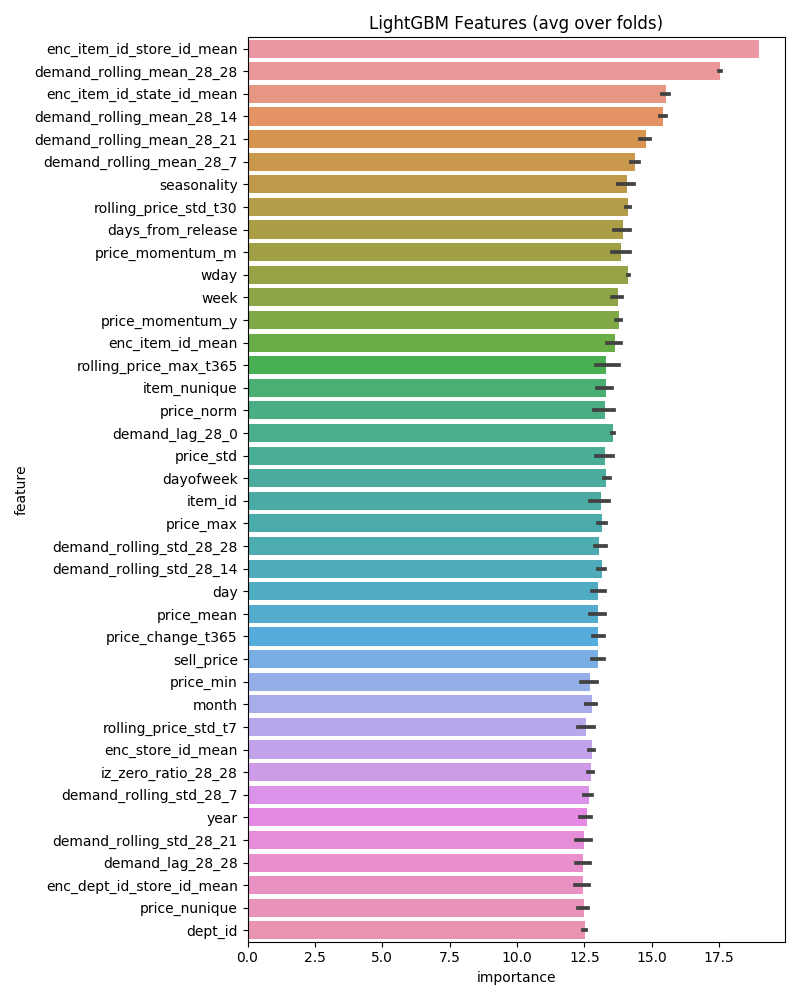
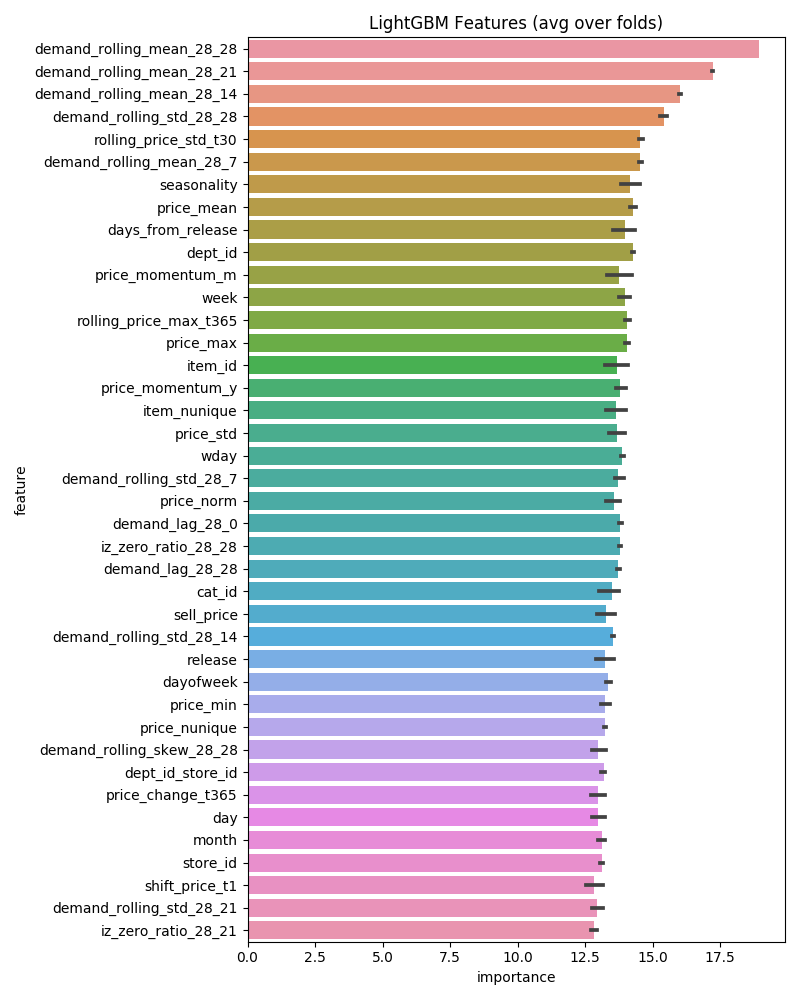
model 401 28days base cv:0.613794

diff --git a/src/201_cv_lgbm_28days.py b/src/201_cv_lgbm_28days.py
@@ -15,10 +15,8 @@ from glob import glob
 from tqdm import tqdm
 
 from utils import line_notify, to_json, rmse, save2pkl, submit
-from utils import NUM_FOLDS, FEATS_EXCLUDED, COLS_TEST1, COLS_TEST2, CAT_COLS
-from utils import CustomTimeSeriesSplitter, custom_asymmetric_train, custom_asymmetric_valid
-from utils_lag import target_encoding
-from utils_score import get_evaluators
+from utils import NUM_FOLDS, FEATS_EXCLUDED
+from utils import CustomTimeSeriesSplitter
 
 #==============================================================================
 # Train LightGBM with custom cv (28days lag)
@@ -56,27 +54,17 @@ def kfold_lightgbm(train_df, test_df, num_folds):
 
     # Create arrays and dataframes to store results
     oof_preds = np.zeros(train_df.shape[0])
-    sub_preds = np.zeros(test_df.shape[0])
     feature_importance_df = pd.DataFrame()
     feats = [f for f in train_df.columns if f not in FEATS_EXCLUDED]
 
     valid_idxs=[]
     avg_best_iteration = 0 # average of best iteration
 
-    # get evaluators
-    lgb_evaluators = get_evaluators()
-
     # k-fold
     for n_fold, (train_idx, valid_idx) in enumerate(folds.split(train_df)):
         # split train/valid
         train_x, train_y = train_df[feats].iloc[train_idx], train_df['demand'].iloc[train_idx]
         valid_x, valid_y = train_df[feats].iloc[valid_idx], train_df['demand'].iloc[valid_idx]
-
-        # target encoding
-        cols_encoding=['item_id','cat_id','dept_id','store_id','state_id',
-                       'item_id_store_id','item_id_state_id','dept_id_store_id',
-                       'dept_id_state_id']
-        train_x, valid_x, enc_cols = target_encoding(train_x,valid_x,train_y,cols_encoding)
 
         # save validation indexes
         valid_idxs += list(valid_idx)
@@ -114,10 +102,10 @@ def kfold_lightgbm(train_df, test_df, num_folds):
         reg = lgb.train(
                         params,
                         lgb_train,
-                        valid_sets=[lgb_test],
+                        valid_sets=[lgb_train, lgb_test],
+                        valid_names=['train', 'test'],
                         num_boost_round=10000,
                         early_stopping_rounds=100,
-                        feval=lgb_evaluators[n_fold].feval,
                         verbose_eval=10
                         )
 
@@ -126,14 +114,13 @@ def kfold_lightgbm(train_df, test_df, num_folds):
 
         # save predictions
         oof_preds[valid_idx] = reg.predict(valid_x, num_iteration=reg.best_iteration)
-#        sub_preds += reg.predict(test_df[feats], num_iteration=reg.best_iteration) / folds.n_splits
 
         # save best iteration
         avg_best_iteration += reg.best_iteration / folds.n_splits
 
         # save feature importances
         fold_importance_df = pd.DataFrame()
-        fold_importance_df['feature'] = feats+enc_cols
+        fold_importance_df['feature'] = feats
         fold_importance_df['importance'] = np.log1p(reg.feature_importance(importance_type='gain', iteration=reg.best_iteration))
         fold_importance_df['fold'] = n_fold + 1
         feature_importance_df = pd.concat([feature_importance_df, fold_importance_df], axis=0)

diff --git a/src/301_train_lgbm_28days.py b/src/301_train_lgbm_28days.py
@@ -18,7 +18,6 @@ from tqdm import tqdm
 
 from utils import line_notify, to_json, rmse, save2pkl, submit
 from utils import FEATS_EXCLUDED, COLS_TEST1, COLS_TEST2, CAT_COLS
-from utils_lag import target_encoding
 
 #==============================================================================
 # Train LightGBM with 28days lag
@@ -50,12 +49,6 @@ def display_importances(feature_importance_df_, outputpath, csv_outputpath):
 # Train LightGBM
 def train_lightgbm(train_df,test_df):
     print('Starting LightGBM. Train shape: {}'.format(train_df.shape))
-
-    # target endcoding
-    cols_encoding=['item_id','cat_id','dept_id','store_id','state_id',
-                   'item_id_store_id','item_id_state_id','dept_id_store_id',
-                   'dept_id_state_id']
-    train_df, test_df, enc_cols = target_encoding(train_df,test_df,train_df['demand'],cols_encoding)
 
     # Create arrays and dataframes to store results
     oof_preds = np.zeros(train_df.shape[0])

diff --git a/src/401_predict_28days.py b/src/401_predict_28days.py
@@ -33,6 +33,9 @@ def main():
     print('to pivot...')
     oof = oof.pivot(index='id', columns='d', values='demand').reset_index()
 
+    # fill na
+    oof.fillna(0,inplace=True)
+
     # postprocesssing
     cols_f = [f'F{i}' for i in range(1,29)]
     cols_d = [c for c in oof.columns if 'd_' in c]
@@ -50,7 +53,7 @@ def main():
     print(f'scores: {scores}')
 
     # submission by API
-    submit(submission_file_name, comment='model401 cv: %.6f' % score)
+#    submit(submission_file_name, comment='model401 cv: %.6f' % score)
 
     # LINE notify
     line_notify('{} done. WRMSSE:{}'.format(sys.argv[0],round(score,6)))
